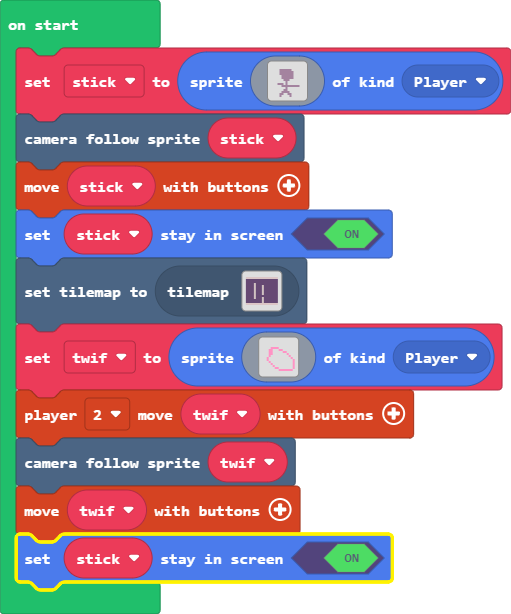
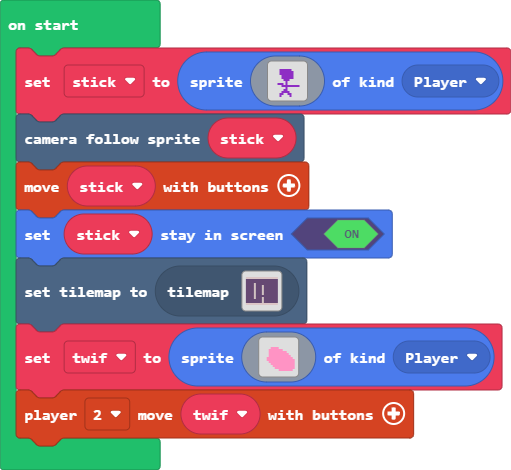
Changed twifs and sticks characters

diff --git a/main.ts b/main.ts
@@ -1,20 +1,20 @@
 let stick = sprites.create(img`
     . . . . . . . . . . . . . . . . 
     . . . . . . . . . . . . . . . . 
-    . . . . b b b b b b . . . . . . 
-    . . . . b b b b b b b . . . . . 
-    . . . . b b b b b b b . . . . . 
-    . . . . . b b b b b b . . . . . 
-    . . . . . b b b b b b . . . . . 
-    . . . . . . b b b . . . . . . . 
-    . . . . . . . b . . . . . . . . 
-    . . . b b b . b . . . . . . . . 
-    . . . . . b b b b b b b b b . . 
-    . . . . . . . b . . . . . . . . 
-    . . . . . . b b . . . . . . . . 
-    . . . . . b b b b . . . . . . . 
-    . . . . b b . . b b . . . . . . 
-    . . . . b . . . . b . . . . . . 
+    . . . . a a a a a a . . . . . . 
+    . . . . a a a a a a a . . . . . 
+    . . . . a a a a a a a . . . . . 
+    . . . . . a a a a a a . . . . . 
+    . . . . . a a a a a a . . . . . 
+    . . . . . . a a a . . . . . . . 
+    . . . . . . . a . . . . . . . . 
+    . . . a a a . a . . . . . . . . 
+    . . . . . a a a a a a a a a . . 
+    . . . . . . . a . . . . . . . . 
+    . . . . . . a a . . . . . . . . 
+    . . . . . a a a a . . . . . . . 
+    . . . . a a . . a a . . . . . . 
+    . . . . a . . . . a . . . . . . 
     `, SpriteKind.Player)
 scene.cameraFollowSprite(stick)
 controller.moveSprite(stick)
@@ -25,16 +25,16 @@ let twif = sprites.create(img`
     . . . . . . . . . . . . . . . . 
     . . . . . . . . . . . . . . . . 
     . . . . 3 3 3 3 . . . . . . . . 
-    . . . 3 3 . . . 3 3 . . . . . . 
-    . . . 3 3 . . . . . 3 3 . . . . 
-    . . . 3 3 . . . . . . . 3 . . . 
-    . . . 3 . . . . . . . . . 3 . . 
-    . . 3 . . . . . . . . . . . 3 . 
-    . . 3 . . . . . . . . . . . . 3 
-    . . . 3 . . . . . . . . . . . 3 
-    . . . . 3 . . . . . . . . . . 3 
-    . . . . . 3 . . . . . . . . . 3 
-    . . . . . . 3 3 . . . . . . . 3 
+    . . . 3 3 3 3 3 3 3 . . . . . . 
+    . . . 3 3 3 3 3 3 3 3 3 . . . . 
+    . . . 3 3 3 3 3 3 3 3 3 3 . . . 
+    . . . 3 3 3 3 3 3 3 3 3 3 3 . . 
+    . . 3 3 3 3 3 3 3 3 3 3 3 3 3 . 
+    . . 3 3 3 3 3 3 3 3 3 3 3 3 3 3 
+    . . . 3 3 3 3 3 3 3 3 3 3 3 3 3 
+    . . . . 3 3 3 3 3 3 3 3 3 3 3 3 
+    . . . . . 3 3 3 3 3 3 3 3 3 3 3 
+    . . . . . . 3 3 3 3 3 3 3 3 3 3 
     . . . . . . . . 3 3 3 3 3 3 3 . 
     . . . . . . . . . . . . . . . . 
     `, SpriteKind.Player)
